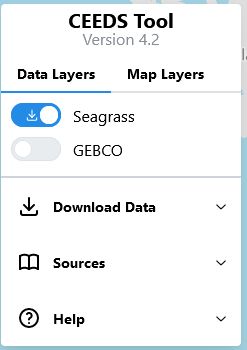
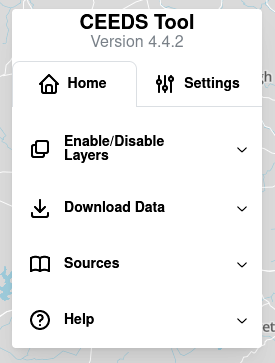
Updated documention and added new screenshots of CEEDS tool

diff --git a/docs/UserGuide.md b/docs/UserGuide.md
@@ -18,12 +18,14 @@ The CEEDS tool has the following capabilities:
 > **NOTE: Third party or download-able layers can only be added by administrators following instructions in admin guide**
 
 ## How to use:
-CEEDS comprises of a map base layer that takes up the whole browser window. Overlaid on this are two panels, the left containing the layer toggles and other options hidden in sub menus and the right which is not usually open unless a feature is selected. There are also various controls on the bottom right of the map screen for drawing and deleting polygons, navigating the map and searching for locations. 
+CEEDS comprises of a map base layer that takes up the whole browser window. Overlaid on this are two panels, the left containing a stack of collapsed menus and the right which 
+is not usually open unless a feature is selected. There are also various controls on the bottom right of the map screen for drawing and deleting polygons, navigating the map 
+and searching for locations. The bottom left is reserved for legends if enabled for specific layers. 
 
 ### Description of User Interface
 
 #### Map view
-This displays a map of the world, by default the tool opens over NW Europe but the user can pan and zoom to anywhere in the world.
+This displays a map of the world, by default the tool opens over the UK but the user can pan and zoom to anywhere in the world.
 
 <div align="center">
 <img src="assets/default-map.png" alt="Default Map of CEEDS Tool">
@@ -32,10 +34,19 @@ This displays a map of the world, by default the tool opens over NW Europe but t
 
 #### Left Panel
 
-This is the main control for CEEDS, it contains two lists of layers data and map. By default it will show the data layers which can be toggled on and off as required, by default most are disabled when loading. The user can also select the map layers tab which allows the user to remove aspects of the base map layer, e.g. labels. This may be useful for screen shots or similar and allows some tailoring of the appearance of the map.
+This is the main control for CEEDS, it contains a two tabs, a home and a settings tab. The home tab contains a series of menus that by default are collapsed. These menus are:
 
+- Enable/Disable data layers
+- Download Data
+- Sources
+- Help
 
-Under the data layers are three accordion (they collapse up) menus. By default these are closed but the user can open them as needed. The menu names are download, sources and help. Each one when opened shows some extra information. Source provides links to the source code and data source of CEEDS, help provides a short description of how to use different parts of the tool with a link to the user guide. Finally download shows a download button along with a number of features selected readout. Be default these are greyed out unless a user has drawn a polygon (please see downloading section for me details) 
+The settings tab contains less used options, currently toggles to turn off parts of the basemap (e.g. labels, roads) if needed.
+
+The user can open and close the menus as needed, by toggling off or on layers as many are not enabled by default (e.g. raster layers) opening the download menu will show
+how many features can currently be downloaded (see downloading data section for more details) and a download button that if clicked will download a CSV containing the feature data for each enabled
+layer. (Not all layers can be downloaded). Sources provides source links for the data, the application code and the mapping provider. Finally there is a help menu that provides 
+a few hints to help the user as well as a link to this documentation.
 
 <div align="center">
 	<div style="display: flex; justify-content: space-evenly;">
@@ -44,8 +55,8 @@ Under the data layers are three accordion (they collapse up) menus. By default t
 			<p> Default left panel </p>
 		</div>
 		<div>
-			<img src="assets/extended-left.png" alt="Left panel will menus extended">
-			<p>Left panel will all menus extended</p>
+			<img src="assets/extended-left.png" alt="Left panel will data layer menu extended">
+			<p>Left panel will data layer menu extended</p>
 		</div>
 	</div>
 </div>
@@ -66,6 +77,7 @@ Upon opening this panel is minimised, saying no feature selected. Once a user se
         </div>
 	</div>
 </div>
+
 #### Drawing control
 
 Located on the bottom right side of the map, this contains two buttons. The top one allows you to draw a polygon on the map by left clicking vertices. Double left click will complete the polygon. To delete the polygon the user can select it so it is highlighted then click the second button which will delete it. 
@@ -85,18 +97,19 @@ Located in the bottom left above the geocoder and below the drawing control are 
 
 ### Downloading Data as CSV file
 
-CEEDS provides the option to download a subset of the ReSOW data. This is useful if users wish to have data for a certain area and would like to do some analysis or statistics etc. Not all data layers are download-able, if they are then they will have a download icon on their enable/disable switch. At the moment only one layer can be downloaded at a time. So ensuring the data layer they want to download is enabled and all others are disabled, the following steps are required.
+CEEDS provides the option to download a subset of the ReSOW data. This is useful if users wish to have data for a certain area and would like to do some analysis or 
+statistics etc. Not all data layers are download-able, if they are then they will have a download icon on their enable/disable switch. Steps to download data:
 
 1. Pan to area of interest
-2. Click draw polygon button in bottom right
-3. Left click around area of interest ensuring all features are within
-4. Double click to complete polygon
-5. Open download sub menu
-6. Check the number of features to download is as expected
+2. Enable all the layers user wishes to download
+3. Click draw polygon button in bottom right
+4. Left click around area of interest ensuring all features are within
+5. Double click to complete polygon
+6. Open download sub menu
 7. Click Download
 
-The web browser will download a CSV of the data subset and save it in the default location (usually user downloads directory). This can be easily opened in Excel or similar. 
-If there is more than one downloadable layer selected then the features inside the polygon for each layer will be downloaded as seperate CSV files.
+The web browser will download a CSV of the data subset for each enabled layer and save it in the default location (usually user downloads directory). This can be easily opened
+in Excel or similar.
 
 <div align="center">
 <img src="assets/polygon.png" alt="Example of a polygon">
@@ -105,19 +118,18 @@ If there is more than one downloadable layer selected then the features inside t
 
 ### Connect ReSOW data source to GIS programs
 
-Ultimately the CEEDS tool may be a bit limiting to technical users who wish to do complicated geo-spatial operations/work-flows, so the option is also present to allow these users who are familiar with GIS programs/work-flows to import the ReSOW data directly into the program. This process is detailed below:
+The CEEDS tool may be a bit limiting to technical users who wish to do complicated geo-spatial operations, so the option is also present to allow these users 
+who are familiar with GIS programs/work-flows to import the ReSOW data directly into the program. This process for different GIS programs is detailed below:
 
 #### QGIS
 
 1. Open new project
 2. Select import new layer => vector tile
 3. Fill out dialog box with:
-    1. URL
-    2. Name 
-    3. Stuff that I have forgotten
-
-4. Click add
-5. Ignore style missing error message.....
+   - URL
+   - Name 
+   - Click add
+   - Ignore style missing error message.....
 
 <div align="center">
 <img src="assets/example-QGIS.png" alt="Example of a data layer in QGIS">

diff --git a/docs/CreatingData.md b/docs/CreatingData.md
@@ -15,13 +15,13 @@ Using QGIS to plot the data and ensure it is correct is a sensible starting poin
     - import shpfile and check it plots correctly
     - export as geojson file (right click layer, export set geojson as format)
 
-Then install Tippecanoe and run the following command to create the MBtiles file.
+Then install [Tippecanoe](https://github.com/mapbox/tippecanoe) and run the following command to create the MBtiles file.
 
 ```shell
 $ tippecanoe -o output.mbtiles --drop-densest-as-needed --generate-id input.geojson
 ```
 
-This will output a MBtiles file that can be places in the MBtileserver tilesets folder where it will be automatically added to the server upon restart.
+This will output a MBtiles file that can be placed in the MBtileserver tilesets folder where it will be automatically added to the server upon restart.
 
 ### raster
  
@@ -32,12 +32,12 @@ This will output a MBtiles file that can be places in the MBtileserver tilesets 
 
 QGIS will export the map canvas rather than the actual data so it is important to style the raster data in QGIS ready for visualisation. 
 E.g. define colour maps and classes etc. The export dialog box has numerous options but these can all be left as their defaults
-aside from setting the zoom layers and the location of the output file, (by default it doesn't write out). 
+aside from setting the zoom layers and the location of the output file, (by default it doesn't write an output file). 
 Determining what zoom layers to use is important, a good explanation of these layers can be found [here](https://wiki.openstreetmap.org/wiki/Zoom_levels)
-. It will depend on the resolution of the data but assuming regional scale data, zoom levels 0 to 13 are a good default. This will cover global scale upto village with pixels of around 20 m.
+. It will depend on the resolution of the data but assuming regional scale data, zoom levels 0 to 13 are a good default. This will cover global scale upto village/suburb scale with pixels of around 20 m.
 If the data has a higher resolution then higher zoom levels can be used but this will increase the output size dramtically and also increase the processing time in QGIS. Finally if a legend is desired, it can be created in QGIS and saved as an jpg and uploaded to the server. See adding legend section.
 
-### Creating a legend
+#### Creating a legend
 If a raster has been converted to a mbtiles format it can be used within CEEDS, to make a legend display when this layer is enabled then the following steps need to be taken.
 
 - create a suitable legend (using QGIS or similar)
@@ -57,7 +57,7 @@ Example legend (GEBCO Bathymetry):
 ## Add to mbtileserver on CEEDS Tool Server
 
 Save the mbtiles file in the tile-sets folder that is located on the CEEDS Tool server.
-By default the mbtileserver is located at /home/$USER/mbtileserver and the tilesets folder will also be
+By default the mbtileserver is located at /home/$USER/go/bin and the tilesets folder will also be
 located here. The mbtileserver checks this folder for tile-sets on start so it will need to be restarted 
 as follows:
 

diff --git a/README.md b/README.md
@@ -1,10 +1,31 @@
 # CEEDS Tool Version 4
 
+## Description
+This is the repository contains the CEEDS tool code. Specifically the web application
+and documentation on how to build and update the system. It does not hold the data of the ReSOW project 
+or the backend used to host the data. The backend is provided via a third party project, details of how
+to setup and install are in the documentation [here](https://noc-mdp.github.io/ReSow-Ceeds-V4/).
+
+## Requirements
+CEEDS requires the following to be installed:
+
+- Git
+- NPM
+
+It is currently only tested and supported on Debian 11. These requirements can be installed as follows:
+
+```shell
+sudo apt install git npm
+```
+
 ## Usage
 
-To run this example, you need a [Mapbox token](http://visgl.github.io/react-map-gl/docs/get-started/mapbox-tokens). You can set it as `REACT_APP_MAPBOX_TOKE` in `.env`.
+To run CEEDS, you need a [Mapbox token](http://visgl.github.io/react-map-gl/docs/get-started/mapbox-tokens). You can set it as `REACT_APP_MAPBOX_TOKE` in `.env`.
+
+Then clone the repository, install the dependencies using node package manager and start
 
 ```bash
+git clone https://github.com/NOC-MDP/ReSow-Ceeds-V4.git
 npm i
 npm run start
 ```

diff --git a/docs/InstallGuide.md b/docs/InstallGuide.md
@@ -80,7 +80,7 @@ This should be located in /etc/nginx/sites-available.
 ```shell
 $ sudo nano /etc/nginx/sites-available/CEEDS
 ```
-Add the following following to the file.
+Add the following to the file.
 ```
 server {
 listen 80;
